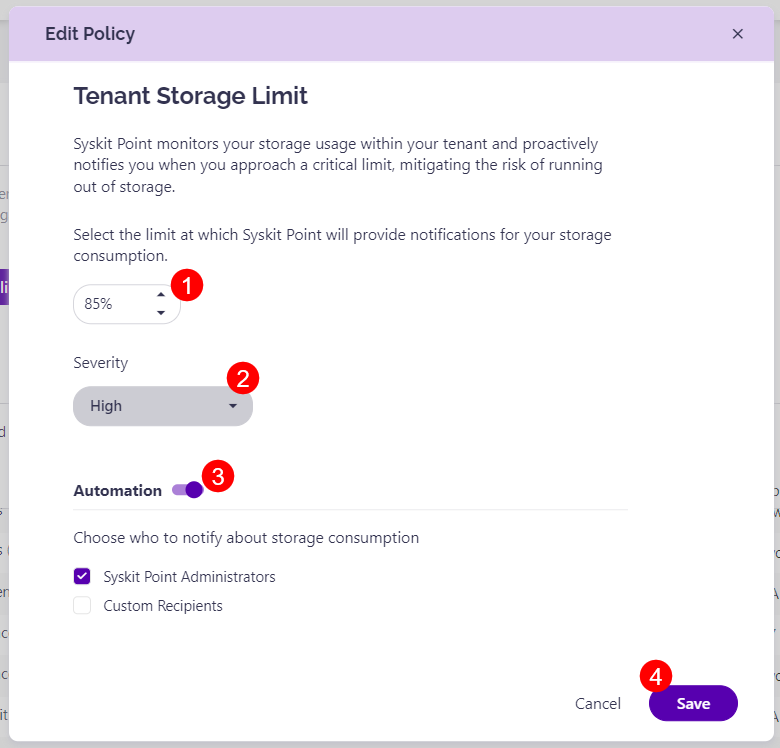
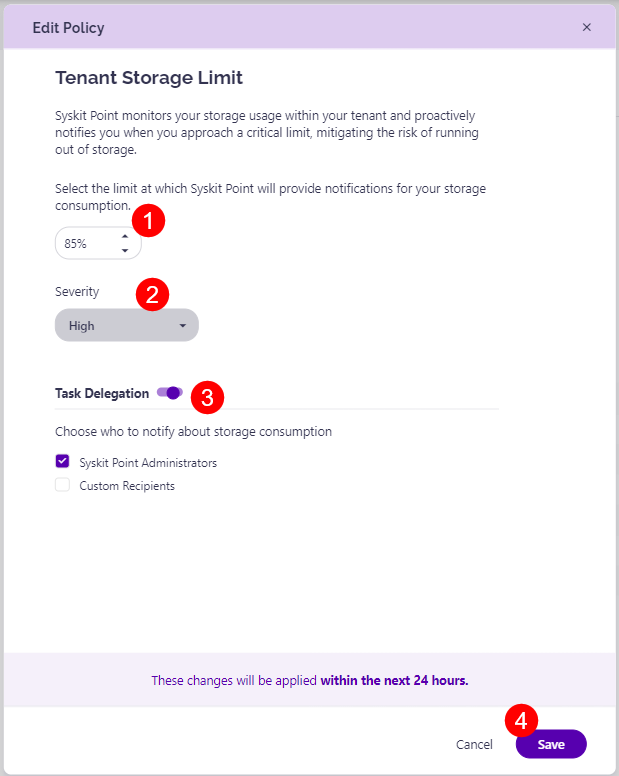
update to articles

Changed region(s): [[0.0, 0.0, 1.0, 1.0], [0.0921, 0.7072, 0.5525, 0.8302], [0.2456, 0.861, 0.7674, 0.8917]]

diff --git a/governance-and-automation/automated-workflows/inactive-guest-users-admin.md b/governance-and-automation/automated-workflows/inactive-guest-users-admin.md
@@ -11,17 +11,21 @@ To activate the policy, navigate to the Policies settings screen and **click the
 ![Inactive Guest Users - Edit Policy](../../.gitbook/assets/set_up_automated_workflows-guest_users_edit.png)
 
 The **Edit Policy** dialog opens where you can:
-* **Enable the policy (1)** by clicking the toggle next to the policy name; this policy is disabled by default.
-* **Select when a user us considered inactive (2)** by choosing the amount of days that need to pass
-* **Select the severity level (3)** for the policy
-* **Enable automation (4)** by clicking the toggle next to it
-  * **Select who will validate guest users:**
-     * **Manager of Guest User (5)**; when the option is selected, **the person responsible for the validation, in case the Guest User does not have a defined manager, needs to be chosen**
-     * **Syskit Point Administrators (6)**; this option is selected by defaut
-     * **Custom Recipients (7)**; when selected, use the input field to select custom users that will be responsible for the validation of Guest Users
-* Click **Save (8)** once you are done with the policy configuration.   
+* **Select when a user is considered inactive (1)** by choosing the amount of days that need to pass
+* **Select the severity level (2)** for the policy
+* **Enable Task Delegation (3)** by clicking the toggle next to it
+  * **Select who will validate guest users (4):**
+     * **Manager of Guest User**; when the option is selected, **the person responsible for the validation, in case the Guest User does not have a defined manager, needs to be chosen**
+     * **Syskit Point Administrators**; this option is selected by defaut
+     * **Custom Recipients**; when selected, use the input field to select custom users that will be responsible for the validation of Guest Users
+  * **Select what Syskit Point should do if there is no validation response(5)**:
+    * Automatically disable guest user
+    * Automatically delete guest user
+    * Perform no action
+  * **Click the checkbox if you want a reminder sent (6)** 3 work days before due date 
+* Click **Save (7)** once you are done with the policy configuration.   
 
-![Edit Policy Dialog](../../.gitbook/assets/set_up_automated_workflows-guest_users_edit_dialog.png)
+![Edit Policy Dialog](../../.gitbook/assets/set-up-automated-workflows-guest-users-edit-dialog.png)
 
 Based on your configuration, **Syskit Point will start the automated workflow when an inactive Guest User is detected**. 
 

diff --git a/governance-and-automation/automated-workflows/minimum-number-of-owners-admin.md b/governance-and-automation/automated-workflows/minimum-number-of-owners-admin.md
@@ -13,15 +13,15 @@ The **Edit Policy** dialog opens where you can:
 * **Define the policy name (1)**
 * **Define the maximum number of allowed owners (2)**; this is set to 5 by default
 * **Choose the severity level (3)**; this option is enabled by default
-* * **Enable automation (4)** by clicking the toggle next to it and select your automation preferences:
+* * **Enable Task Delegation (4)** by clicking the toggle next to it and select your task delegation preferences:
   * **Send reminder to reviewers (5)** 3 work days before due date; this option is enabled by default
   * **Choose what to do if owners don't resolve the policy violation until the due date (6)**. The following options are available:
     * **Reassign Task**; when selected, you can define who will get the task - **Manager of the Reviewer**, **Syskit Point Administrators**, or **custom recipients**; this option is selected by default, and the tasks are reassigned to Manager of Reviewer
     * **Automatically Remove Owners**; if selected, **Syskit Point will remove existing owners starting from users with the oldest sign-in date** until the defined maximum number of owners is reached to comply with the policy
-* Click **Save (7)** once you are done with the policy configuration.  
+  * **Click the checkbox to allow owners to accept risk for the policy (7)**
+* Click **Save (8)** once you are done with the policy configuration.  
 
-![Edit Policy Dialog](../../.gitbook/assets/set_up_automated_workflows-min_owners_dialog.png)
+![Edit Policy Dialog](../../.gitbook/assets/set-up-automated-workflows-min-owners-dialog.png)
 
-![Edit Policy Dialog](../../.gitbook/assets/set_up_automated_workflows-min_owners_dialog-automation.png)
 
 For details on how collaborators can [**resolve Minimum Number of Owners policy violation tasks**, navigate to the following article](../../point-collaborators/resolve-governance-tasks/minimum-number-of-owners.md).

diff --git a/governance-and-automation/automated-workflows/maximum-number-of-owners-admin.md b/governance-and-automation/automated-workflows/maximum-number-of-owners-admin.md
@@ -14,16 +14,14 @@ The **Edit Policy** dialog opens where you can:
 * **Define the policy name (1)**
 * **Define the maximum number of allowed owners (2)**; this is set to 5 by default
 * **Choose the severity level (3)**; this option is enabled by default
-* * **Enable automation (4)** by clicking the toggle next to it and select your automation preferences:
+* * **Enable Task Delegation (4)** by clicking the toggle next to it and select your task delegation preferences:
   * **Send reminder to reviewers (5)** 3 work days before due date; this option is enabled by default
   * **Choose what to do if owners don't resolve the policy violation until the due date (6)**. The following options are available:
     * **Reassign Task**; when selected, you can define who will get the task - **Manager of the Reviewer**, **Syskit Point Administrators**, or **custom recipients**; this option is selected by default, and the tasks are reassigned to Manager of Reviewer
     * **Automatically Remove Owners**; if selected, **Syskit Point will remove existing owners starting from users with the oldest sign-in date** until the defined maximum number of owners is reached to comply with the policy
 * Click **Save (7)** once you are done with the policy configuration.  
 
-![Edit Policy Dialog](../../.gitbook/assets/set_up_automated_workflows-max_owners_dialog.png)
-
-![Edit Policy Dialog - Automation](../../.gitbook/assets/set_up_automated_workflows-max_owners_dialog-automation.png)
+![Edit Policy Dialog](../../.gitbook/assets/set-up-automated-workflows-max-owners-dialog.png)
 
 
 For details on how collaborators can [**resolve Maximum Number of Owners policy violation tasks**, navigate to the following article](../../point-collaborators/resolve-governance-tasks/maximum-number-of-owners.md).

diff --git a/governance-and-automation/automated-workflows/orphaned-resources-admin.md b/governance-and-automation/automated-workflows/orphaned-resources-admin.md
@@ -13,7 +13,7 @@ Click the **Edit (1)** icon to view all defined options for the policy.
 The **Edit Policy** dialog opens where you can:
 * **Define the policy name (1)**
 * **Choose the severity level (2)**; this option is enabled by default
-* **Enable automation (3)** by clicking the toggle next to it and select your automation preferences:
+* **Enable Task Delegation (3)** by clicking the toggle next to it and select your task delegation preferences:
   * **Select between the 3 available processes (4)**:
      * **Ask Specific Users to Assign New Owners**; this is a **1-stage process**, where selected users - Syskit Point Administrators and/or custom recipients - **get a task to assign new owners**
      * **Ask Members to Suggest New Owners**; this is a **2-stage process**, where members can suggest new owners, and afterward, the selected users - Syskit Point Administrators and/or custom recipients - **get a task to resolve the task base on the suggestions from owners**; by default, this option is selected
@@ -21,9 +21,7 @@ The **Edit Policy** dialog opens where you can:
       * If the manager cannot be found, Syskit Point will escalate the task to the defined user
  * Click **Save (5)** once you are done with the policy configuration 
 
-![Edit Policy Dialog](../../.gitbook/assets/set_up_automated_workflows-orphaned_dialog.png)
-
-![Edit Policy Dialog](../../.gitbook/assets/set_up_automated_workflows-orphaned_dialog-automation.png)
+![Edit Policy Dialog](../../.gitbook/assets/set-up-automated-workflows-orphaned-dialog.png)
 
 
 For details on how collaborators can [**resolve Orphanes Workspaces policy violation tasks**, navigate to the following article](../../point-collaborators/resolve-governance-tasks/orphaned-resources.md).

diff --git a/governance-and-automation/automated-workflows/tenant-storage-admin.md b/governance-and-automation/automated-workflows/tenant-storage-admin.md
@@ -19,7 +19,7 @@ The **Edit Policy** pop-up dialog opens where you can:
 * **Select the Severity level (2)**
   * The severity level set by default for this policy is High
   * You can select between three levels of severity: **High, Medium, or Low**
-* By default, **automation for this policy is turned on** but it can be turned off by clicking the toggle (3)
+* By default, **task delegation for this policy is turned on** but it can be turned off by **clicking the toggle (3)**
   * By default, Syskit Point admins are notified about storage usage but you can also select Custom Recipients 
 
 Once the policy is set to your preference, **click the Save button (4)** to finalize. 
